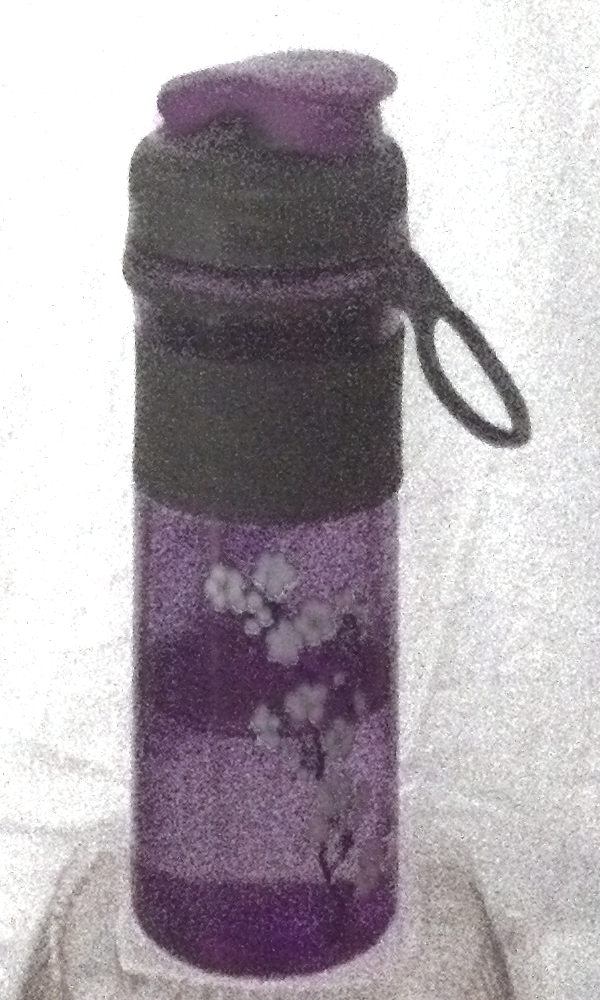
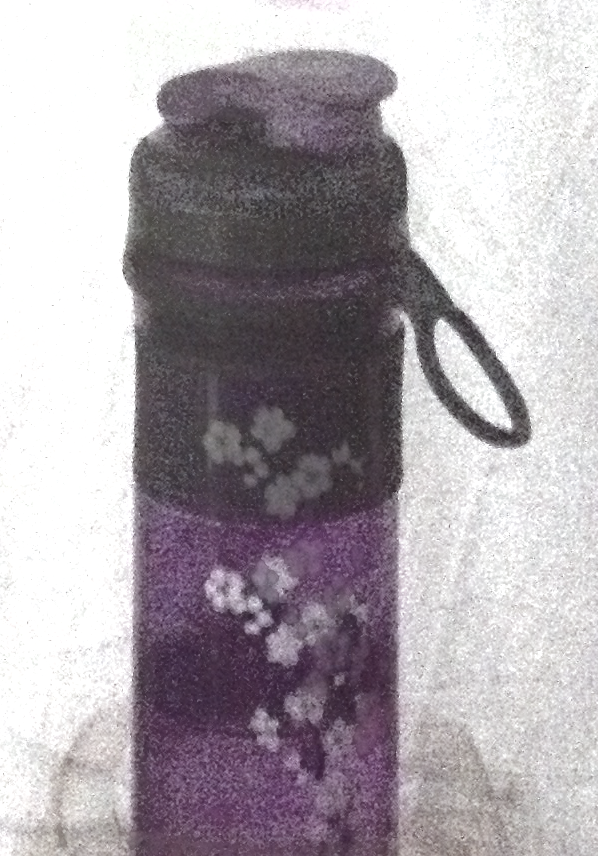
attempt image alignment by convolving flat images

diff --git a/transparency.py b/transparency.py
@@ -1,8 +1,125 @@
 import numpy as np
 from scipy.misc import imread, imsave
 
-im1 = imread("in1.png").astype(float) / 255
-im2 = imread("in2.png").astype(float) / 255
+im1 = imread("in1.png")[:, :, :3].astype(float) / 255
+im2 = imread("in2.png")[:, :, :3].astype(float) / 255
+
+# Returns two arbitrary 3D unit vectors perpendicular to n and to each other.
+# The vectors are chosen in a way that makes the calculations simple
+# in order to reduce numerical error.
+def getPlaneAxes(n):
+    # As a further precaution against numerical error, the calculations use the
+    # smallest component of n less often than the larger two.
+    minComponent = np.argmin(np.abs(n))
+    i = np.mod(np.arange(minComponent, minComponent + 3), 3)
+
+    planeAxis1 = np.empty(3)
+    planeAxis1[i] = [0, n[i[2]], -n[i[1]]]
+    planeAxis1 /= np.linalg.norm(planeAxis1)
+
+    planeAxis2 = np.empty(3)
+    planeAxis2[i] = [-n[i[1]] * n[i[1]] - n[i[2]] * n[i[2]],
+                     n[i[0]] * n[i[1]],
+                     n[i[0]] * n[i[2]]]
+    planeAxis2 /= np.linalg.norm(planeAxis2)
+
+    return planeAxis1, planeAxis2
+
+hubAxis = np.mean(im2, axis = (0, 1)) - np.mean(im1, axis = (0, 1))
+planeAxis1, planeAxis2 = getPlaneAxes(hubAxis)
+
+flatIm1 = np.empty(im1.shape[:2] + (3,))
+flatIm1[:, :, 0] = np.dot(im1, planeAxis1)
+flatIm1[:, :, 1] = np.dot(im1, planeAxis2)
+flatIm1[:, :, 2] = np.dot(im1, hubAxis * 0.01 / np.linalg.norm(hubAxis))
+flatIm1 -= np.mean(flatIm1, axis = (0, 1))
+
+savedFlatIm1 = flatIm1 - np.min(flatIm1, axis = (0, 1))
+savedFlatIm1 *= 255 / np.max(savedFlatIm1)
+np.round(savedFlatIm1, out = savedFlatIm1)
+imsave("flatIm1.png", savedFlatIm1.astype(np.uint8))
+del savedFlatIm1
+
+flatIm2 = np.empty(im2.shape[:2] + (3,))
+flatIm2[:, :, 0] = np.dot(im2, planeAxis1)
+flatIm2[:, :, 1] = np.dot(im2, planeAxis2)
+flatIm2[:, :, 2] = np.dot(im2, hubAxis * 0.01 / np.linalg.norm(hubAxis))
+flatIm2 -= np.mean(flatIm2, axis = (0, 1))
+
+savedFlatIm2 = flatIm2 - np.min(flatIm2, axis = (0, 1))
+savedFlatIm2 *= 255 / np.max(savedFlatIm2)
+np.round(savedFlatIm2, out = savedFlatIm2)
+imsave("flatIm2.png", savedFlatIm2.astype(np.uint8))
+del savedFlatIm2
+
+def convolve(fixed, moving, overhang):
+    fixedShape = np.asarray(fixed.shape)
+    movingShape = np.asarray(moving.shape)
+    overhang = np.asarray(overhang)
+
+    wrappedShape = tuple(fixedShape + overhang)
+
+    resultShape = tuple(fixedShape - movingShape + 1 + 2 * overhang)
+
+    wrapped = np.fft.irfft2(np.fft.rfft2(fixed[:, :],
+                                         s = wrappedShape) \
+                            * np.fft.rfft2(moving[::-1, ::-1],
+                                           s = wrappedShape),
+                            s = wrappedShape)
+    result = wrapped[-resultShape[0]:, -resultShape[1]:]
+
+    return result
+
+def colorConvolve(fixed, moving, overhang):
+    fixedShape = np.asarray(fixed.shape[:2])
+    movingShape = np.asarray(moving.shape[:2])
+    overhang = np.asarray(overhang)
+
+    wrappedShape = tuple(fixedShape + overhang)
+
+    resultShape = tuple(fixedShape - movingShape + 1 + 2 * overhang)
+    result = np.zeros(resultShape)
+
+    for i in xrange(fixed.shape[2]):
+        wrapped = np.fft.irfft2(np.fft.rfft2(fixed[:, :, i],
+                                             s = wrappedShape) \
+                                * np.fft.rfft2(moving[::-1, ::-1, i],
+                                               s = wrappedShape),
+                                s = wrappedShape)
+        result[:, :] += wrapped[-resultShape[0]:, -resultShape[1]:]
+
+    return result
+
+smallShape = np.minimum(im1.shape[:2], im2.shape[:2])
+overhang = im2.shape[:2] - (smallShape + 1) // 2
+scores = convolve(np.sum(np.square(flatIm1), axis = 2),
+                  np.ones(im2.shape[:2]),
+                  overhang) \
+         + convolve(np.ones(im1.shape[:2]),
+                    np.sum(np.square(flatIm2), axis = 2),
+                    overhang) \
+         - 2 * colorConvolve(flatIm1, flatIm2, overhang)
+scores /= convolve(np.ones(im1.shape[:2]), np.ones(im2.shape[:2]), overhang)
+
+alignment = np.unravel_index(np.argmin(scores), scores.shape) - overhang
+print alignment
+
+scores -= np.min(scores)
+scores *= 255 / np.max(scores)
+np.round(scores, out = scores)
+np.clip(scores, 0, 255, out = scores)
+imsave("convolutionScores.png", scores.astype(np.uint8))
+
+im1Start = np.maximum(alignment, 0)
+im1Stop = np.minimum(alignment + im2.shape[:2], im1.shape[:2])
+im1 = im1[im1Start[0]:im1Stop[0], im1Start[1]:im1Stop[1]]
+
+im2Start = im1Start - alignment
+im2Stop = im1Stop - alignment
+im2 = im2[im2Start[0]:im2Stop[0], im2Start[1]:im2Stop[1]]
+
+imsave("alignedIm1.png", (im1 * 255).astype(np.uint8))
+imsave("alignedIm2.png", (im2 * 255).astype(np.uint8))
 
 # Calculate hub axis
 
